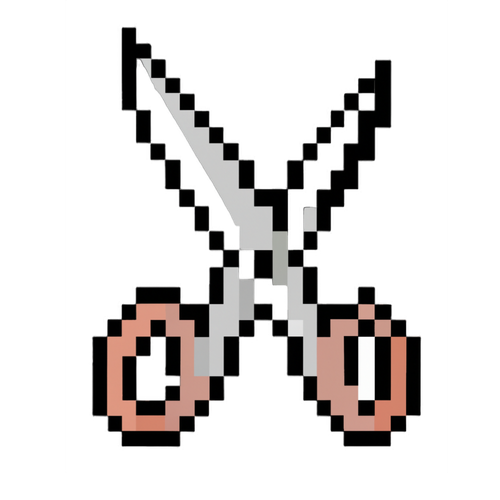
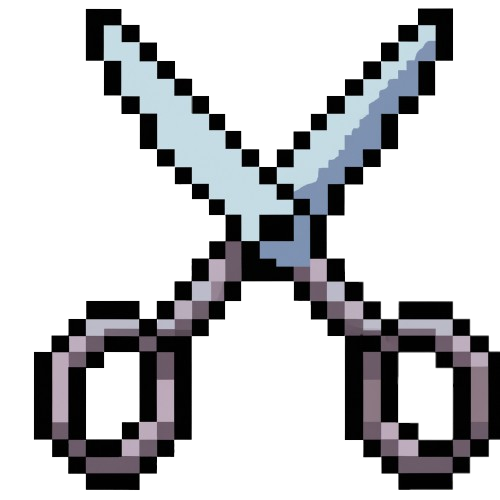
reset button

diff --git a/index.html b/index.html
@@ -17,17 +17,25 @@
         <p id="subhead">First to 5 points wins</p>
     </div>
     <div id="choicebtns">
-        <button class="choicebtn" id="rock">ROCK</button>
-        <button class="choicebtn" id="paper">PAPER</button>
-        <button class="choicebtn" id="scissors">SCISSORS</button>
+        <!-- <img href="rock.png" class="choicebtn" id="rock">
+        <img href="paper.png" class="choicebtn" id="paper">
+        <img href="scissors.png" class="choicebtn" id="scissors"> -->
+        <button class="choicebtn" id="rock"></button>
+        <button class="choicebtn" id="paper"></button>
+        <button class="choicebtn" id="scissors"></button>
     </div>
     <div id="outcomes">
         <p>Computer chose: <span id="comp"></span></p>
         <p>Round result: <span id="round"></span></p>
         <p>Your score: <span id="user-score">0</span></p>
         <p>Computer score: <span id="comp-score">0</span></p>
-        <p id="gameover"></p>
-        <p id="winner"></p>
+        <div class="container popup">
+            <div id="popup">
+                <p id="gameover"></p>
+                <p id="winner"></p>
+                <button id="resetbtn">PLAY AGAIN</button>
+            </div>
+        </div>
     </div>
 </body>
 

diff --git a/script.js b/script.js
@@ -4,7 +4,8 @@ const btns = document.querySelectorAll('.choicebtn');
 btns.forEach(btn => {
     btn.addEventListener('click', getUserChoice);
 })
-
+//Refresh page on click
+document.getElementById('resetbtn').addEventListener('click', () => location.reload());
 //Read id of clicked button and set userChoice to that id
 function getUserChoice(e) {
     let userChoice = (e.target.id);

diff --git a/README.md b/README.md
@@ -1,2 +1,2 @@
 # rock-paper-scissors
-A simple rock, paper, scissors game
+A simple rock-paper-scissors game
